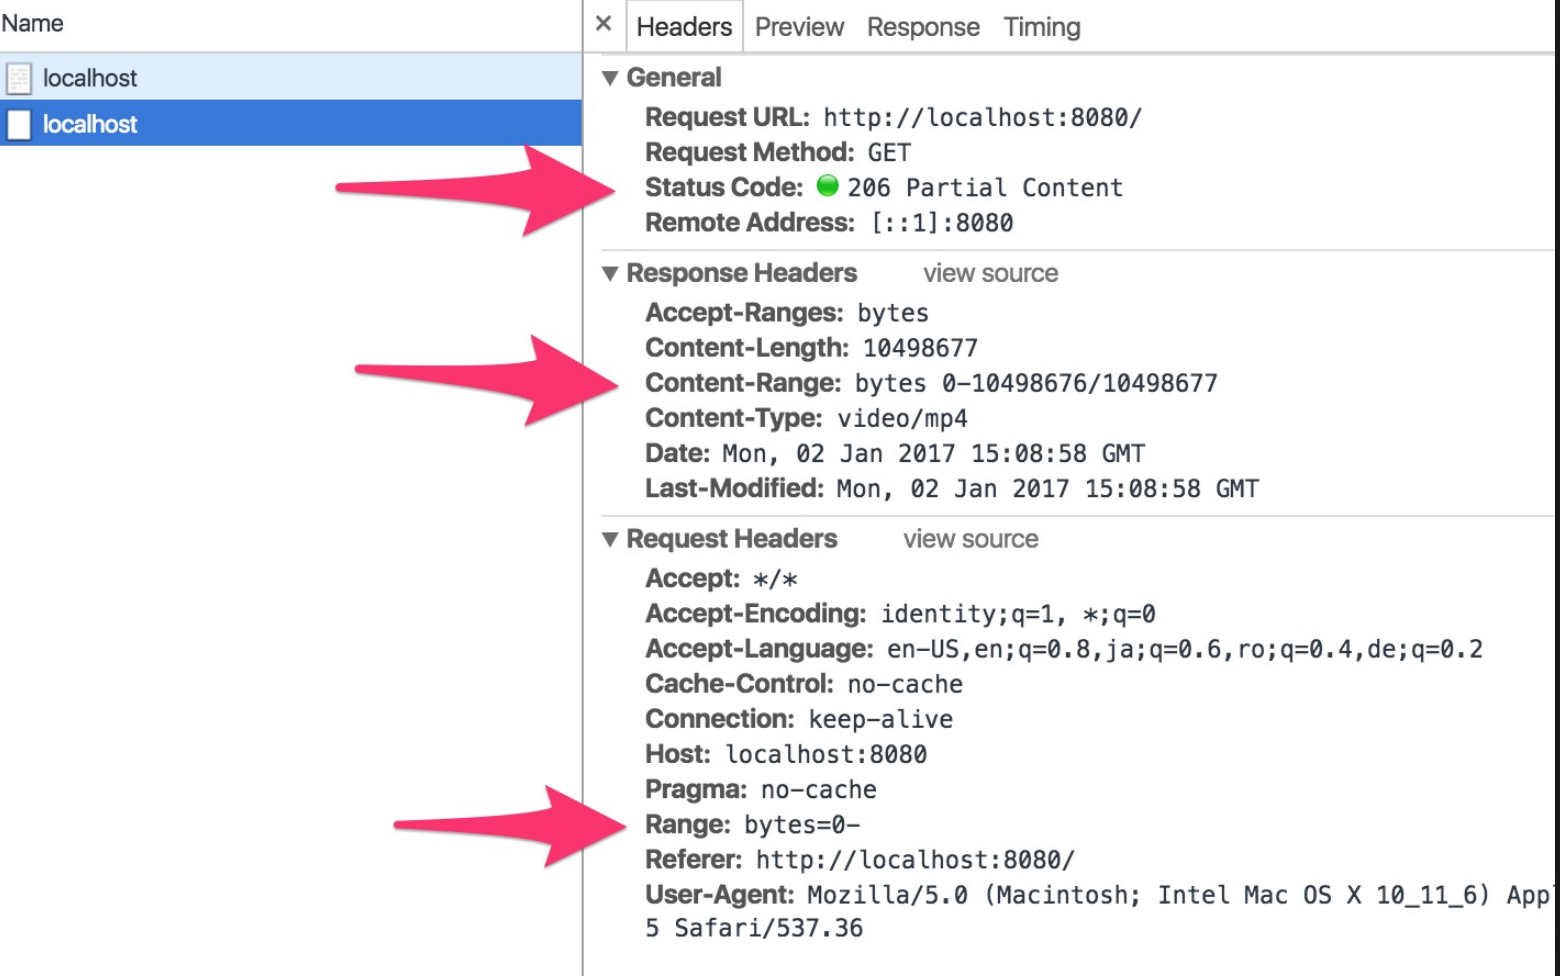
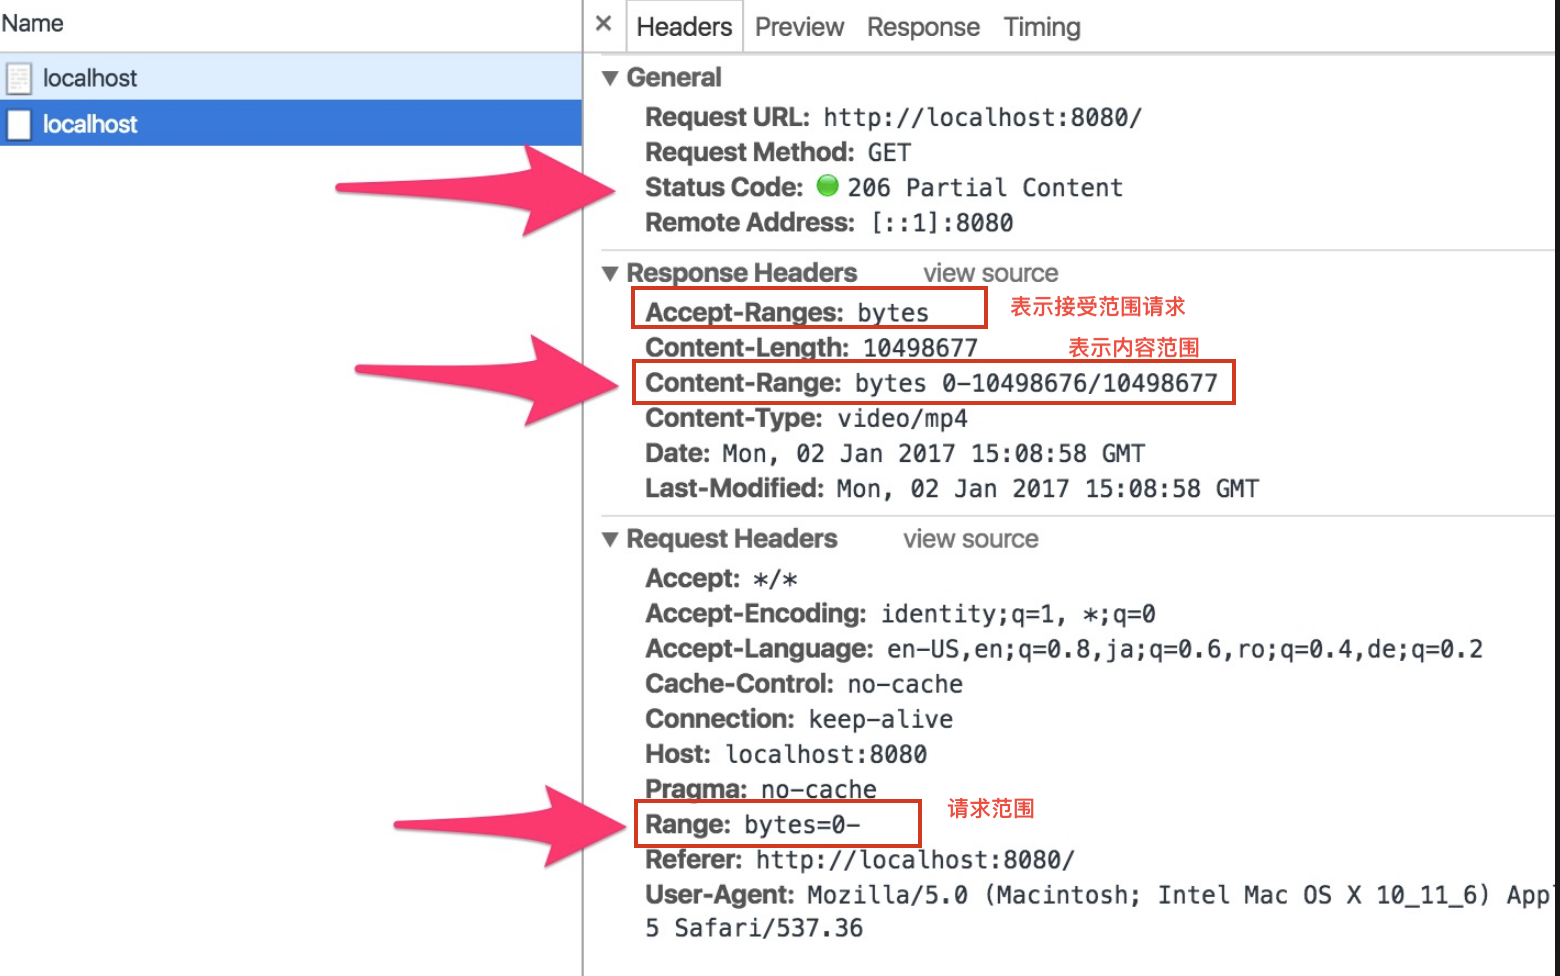
状态码与报文

diff --git a/network/http/status_code/status_code.md b/network/http/status_code/status_code.md
@@ -1,5 +1,6 @@
-# http状态码 及其 对应报文头
-
+## HTTP状态码 - 从报文头一一分析
+![](/blog_assets/status_code_cover.png) 
+___
 ### 1XX 
 #### 100 Continue
 ##### `行为表现`
@@ -26,7 +27,7 @@ ___
 一类的状态码，表示你的请求已经被服务器正确地处理了，没有遇到其他问题，服务器在返回体中，选择性地返回一些内容\
 
 #### 200 OK
-* 请求被服务器成功处理，服务器会根据不同的请求方式返回结果 
+💎 请求被服务器成功处理，服务器会根据不同的请求方式返回结果    
 
 #### 201 Created  
 请求已经被实现，而且有一个新的资源已经依据请求的需要而建立，且其 URI 已经随Location 头信息返回。
@@ -34,16 +35,35 @@ ___
 
 
 #### 204 NO CONTENT
-❤ 服务器已经完成了处理，但是不需要返回响应体   
-![](/blog_assets/204.png)
-##### `RFC的描述原文` 
-<code>If the client is a user agent, it SHOULD NOT change its document view from that which caused the request to be sent. This response is primarily intended to allow input for actions to take place without causing a change to the user agent’s active document view, although any new or updated metainformation SHOULD be applied to the document currently in the user agent’s active view.</code>
-若用户进行
-#### 206 PARTIAL CONTENT
-* 这个状态码的出现，表示客户端发起了`范围请求`，而服务器只对其中的一部分的请求成功处理了
-* 此时的客户端请求，必须包含有`range`字段，而服务端的报文中，必须包含由，`Content-Range`指定的实体内容(`entity`) 
+1⃣ 服务器已经完成了处理，但是不需要返回响应体    
+2⃣ 与200状态下，没有实体返回的区别在于，浏览器处理204的状态码，只是回去读取报文头的更新信息，若UA是一个浏览器，请求的时候是`<a href="xxx">`标签形式，204则不会发生页面跳转，相对应200下则会发生跳转。 
 
-![](/blog_assets/206.png)
+![](/blog_assets/204.png) 
+
+`RFC的描述原文`  
+![](/blog_assets/204_RFC.png) 
+
+#### 206 Partial Content 
+1⃣ 这个状态码的出现，表示客户端发起了`范围请求`，而服务器只对其中的一部分的请求成功处理了
+2⃣ 此时的客户端请求，必须包含有`range`字段，而服务端的报文中，必须包含由，`Content-Range`指定的实体内容(`entity`) 
+
+![](/blog_assets/206.png)    
+
+`Range字段含义`     
+💎 XXX--rrr 有头有尾，表示使用多线程下载。   
+💎 XXX--    有头无尾，表示断点续传，在线播放    
+💎 ---XXX   有尾无头，表明只要最后的XXXbytes    
+💎 XXX--ccc,yyy-uuu,qqq-zzz  表示明确范围的多范围下载   
+
+`增强校验`     
+💎 使用`If-Modified`和`If-Match`这两套去保证分段的资源是可靠的，资源在分段过程中没有被修改   
+💎 或者是用`If-Range`去请求   
+>`If-Range`浏览器告诉 WEB 服务器，如果我请求的对象没有改变，就把我缺少的部分给我，如果对象改变了，就把整个对象给我。浏览器通过发送请求对象的ETag 或者自己所知道的最后修改时间给 WEB 服务器，让其判断对象是否改变了。总是跟 Range 头部一起使用。   
+
+详细过程请参考这篇文章,[传送门](https://www.cnblogs.com/findumars/p/5745345.html)
+
+
+___
 ### 3XX 
 表示服务器端已经接受到了请求，必须对请求进行一些特殊的处理之后，才能够顺利完成此处请求
 #### 301 MOVE PERMANELTLY
@@ -119,37 +139,103 @@ ___
 ### 4XX
 
 #### 400 BAD REQUEST
-* 表示该请求报文中`存在语法错误`，导致服务器无法理解该请求。客户端需要修改请求的内容后再次发送请求。
+1⃣ 表示该请求报文中`存在语法错误`，导致服务器无法理解该请求。客户端需要修改请求的内容后再次发送请求。    
+2⃣ 一般也可以用于用户提交的表单内容不完全正确，服务端也可以用400来享用客户
+
+![](/blog_assets/400.png)  
+<div style="text-align:center;color:grey;">跨域OPTION请求中的 400</div>
 
 #### 401 UNAUTHORIZED
-* 该状态码表示发送的请求需要有通过HTTP认证
-* 当客户端再次请求该资源的时候，需要在请求头中的Authorization包含认证信息。
+1⃣ 该状态码表示发送的请求需要有通过HTTP认证
+2⃣ 当客户端再次请求该资源的时候，需要在请求头中的Authorization包含认证信息。
+
+![](/blog_assets/401.png)  
+<div style="text-align:center;color:grey;">验证失败返回 401</div>
+
+![](/blog_assets/401_CORRECT.png)  
+<div style="text-align:center;color:grey;">客户端主动提供Authorization信息</div>
+
+3⃣ `www-authenticate:Basic`表示一种简单的，有效的用户身份认证技术。  
+
+##### Basic 验证过程简述
+1⃣ 客户端访问一个受http基本认证保护的资源。    
+2⃣ 服务器返回401状态，要求客户端提供用户名和密码进行认证。（验证失败的时候，响应头会加上WWW-Authenticate: Basic realm="请求域"。）
+```
+401 Unauthorized     
+WWW-Authenticate： Basic realm="WallyWorld"
+```
+3⃣ 客户端将输入的用户名密码用`Base64`进行编码后，采用非加密的明文方式传送给服务器。
+```
+Authorization: Basic xxxxxxxxxx.
+```
+4⃣ 服务器将Authorization头中的用户名密码解码并取出，进行验证，如果认证成功，则返回相应的资源。如果认证失败，则仍返回`401`状态，要求重新进行认证。   
 
 #### 403 FORBIDDEN
-* 该状态码表明对请求资源的访问被服务器拒绝了。 
-* 服务器没有必要给出拒绝的详细理由，但如果想做说明的话，可以在实体的主体部分原因进行描述 。
-* 未获得文件系统的访问权限，访问权限出现某些问题，从未授权的发送源IP地址试图访问等情况都可能发生403响应。
+1⃣ 该状态码表明对请求资源的访问被服务器拒绝了。    
+2⃣ 服务器没有必要给出拒绝的详细理由，但如果想做说明的话，可以在实体的主体部分原因进行描述 。   
+3⃣ 未获得文件系统的访问权限，访问权限出现某些问题，从未授权的发送源IP地址试图访问等情况都可能发生403响应。     
 
+![](/blog_assets/403.png)
 #### 404 NOT FOUND
-* 表明无法找到制定的资源
-* 通常也被服务端用户表示不想透露的请求失败原因
+1⃣ 表明无法找到制定的资源
+2⃣ 通常也被服务端用户表示不想透露的请求失败原因  
+
+![](/blog_assets/404.png)  
+
+#### 405 Method Not Allowed  
+表示该资源不支持该形式的请求方式，在Response Header中返回`Allow`字段，携带支持的请求方式  
+![](/blog_assets/405.png)     
+
+#### 412 Precondition Failed  
+在请求报文中的`If-xxx`字段发送到服务端后，服务端发现没有匹配上。比如，`If-Match:asfdfsdzxc`，希望匹配`ETag`值。
+
+![](/blog_assets/412.png)    
+
+#### 417 Exception Failed  
+我们先来看看RFC是怎么定义的...
+
+![](/blog_assets/417_RFC.png)  
+
+在请求头`Expect`中指定的预期内容无法被服务器满足，或者这个服务器是一个代理服务器，它有明显的证据证明在当前路由的下一个节点上，Expect 的内容无法被满足。
+
+
+![](/blog_assets/417.png)  
 
 ### 5XX
-#### 500 INTERNAL SERVER ERROR
-* 表示服务器端在处理客户端请求的时候，服务器内部发生了错误
+#### 500 Internal Server Error
+表示服务器端在处理客户端请求的时候，服务器内部发生了错误  
 
-#### 503 SERVICE UNAVALIABEL
-* 该状态码表示服务器已经处于一个超负荷的一个状态，或者是所提供的服务暂时不能够正常使用
-* 若服务器端能够事先得知服务恢复时间的话，可以在返回503状态码的同时，把恢复时间写入`Retry-After`字段中
+![](/blog_assets/500.png)  
 
+#### 502 Bad Gateway 
+1⃣ 一般表示连接服务器的便捷路由器出问题了，导致请求不能到达。  
 
+我们最常见的应该是这个页面    
+![](/blog_assets/502_SHORT.png)     
 
+然后资源请求的时候，详细的报文
+
+![](/blog_assets/502.png)  
+
+#### 503 Service Unavaliable
+1⃣ 该状态码表示服务器已经处于一个超负荷的一个状态，或者是所提供的服务暂时不能够正常使用     
+2⃣ 若服务器端能够事先得知服务恢复时间的话，可以在返回503状态码的同时，把恢复时间写入`Retry-After`字段中     
+
+常见的页面形式
+![](/blog_assets/503_SHORT.png)  
+
+报文解读
+![](/blog_assets/503.png)  
+
+3⃣ 注意，要是503的报文返回时，没有携带`Retry-After`的报文头，那么客户端应将次返回处理为`500`
 ___
 ### 参考文章   
 [100 continue 的秘密](https://blog.csdn.net/pzqingchong/article/details/70196092)
 [http状态码 -百度百科](https://baike.baidu.com/item/HTTP%E7%8A%B6%E6%80%81%E7%A0%81/5053660?fr=aladdin)  
-[301与302](https://lz5z.com/HTTP-301-vs-302/)  
-
-[websocket探秘](https://segmentfault.com/a/1190000015985491)
-
-[200/204/206-302/303/307 -cnblog](http://www.cnblogs.com/zhjh256/p/6910534.html)
+[301与302](https://lz5z.com/HTTP-301-vs-302/)    
+[websocket探秘](https://segmentfault.com/a/1190000015985491)    
+[200/204/206-302/303/307 -cnblog](http://www.cnblogs.com/zhjh256/p/6910534.html)    
+[HTTP状态码302、303和307的故事](https://www.cnblogs.com/cswuyg/p/3871976.html)    
+[RFC- HTTP1.1](https://tools.ietf.org/html/rfc2616#section-10.3.3)   
+[206断续下载](
+https://blog.csdn.net/xiaofei0859/article/details/52883500)

diff --git a/README.md b/README.md
@@ -71,7 +71,7 @@
 * [【传输层 1-1】DNS基本原理](/network/DNS.md)
 * [【传输层 1-2】TCP与UDP](/network/network_class/TCP.md)
 * [【应用层 2-1】HTTP 2.0🔱](/network/http/http2.0.md) 
-* [【应用层 2-2】HTTP_状态码_及其对应header](/network/status_code.md)
+* [【应用层 2-2】HTTP状态码 - 从报文头一一分析](/network/status_code.md)
 * [【应用层 2-3】从报文分析HTTPS握手过程](/network/http/https.md)
 * [【应用层 2-4】“熟悉而陌生”的GET_&_POST](/network/http/post_get.md) 
 * [【网络安全 3-1】XSS 与 CSRF](/browser/CSRF_XSS.md)
